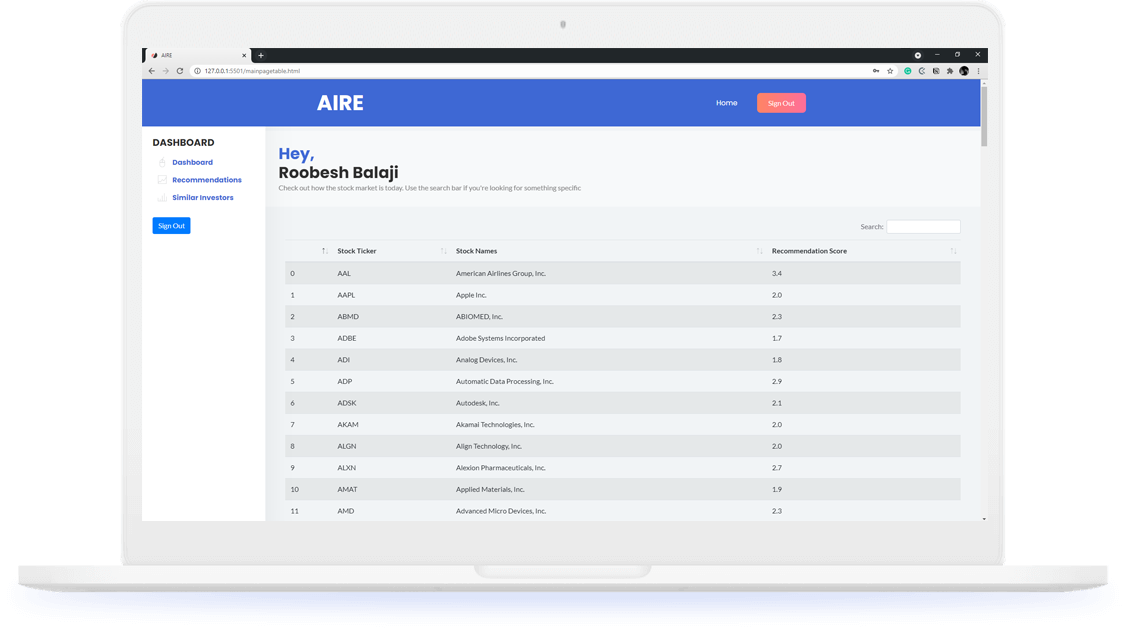
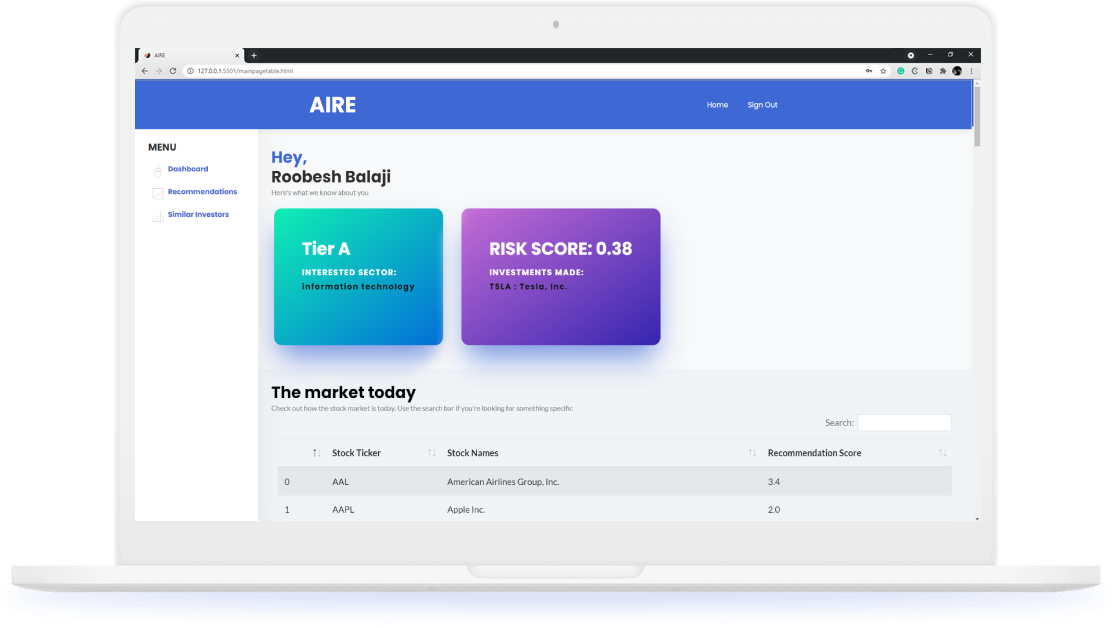
Mobile UI Bug fixes V2.2

diff --git a/templates/dashboard.html b/templates/dashboard.html
@@ -63,12 +63,12 @@ crossorigin="anonymous">
                                     <li class="nav-item active">
                                         <a class="page-scroll" href="dashboard.html">Home</a>
                                     </li>
+                                    <li class="nav-item active">
+                                        <a class="page-scroll" onclick="signOut()">Sign Out</a>
+                                    </li>
+
                                 </ul>
                             </div> <!-- navbar collapse -->
-                            
-                            <div class="navbar-btn d-none d-sm-inline-block">
-                                <a class="main-btn" data-scroll-nav="0" onclick="signOut()" rel="nofollow" style="color:white">Sign Out</a>
-                            </div>
                         </nav> <!-- navbar -->
                     </div>
                 </div> <!-- row -->

diff --git a/templates/recommendations.html b/templates/recommendations.html
@@ -70,12 +70,11 @@ crossorigin="anonymous">
                                     <li class="nav-item active">
                                         <a class="page-scroll" href="dashboard.html">Home</a>
                                     </li>
+                                    <li class="nav-item active">
+                                        <a class="page-scroll" onclick="signOut()">Sign Out</a>
+                                    </li>
                                 </ul>
                             </div> <!-- navbar collapse -->
-                            
-                            <div class="navbar-btn d-none d-sm-inline-block">
-                                <a class="main-btn" data-scroll-nav="0" onclick="signOut()" rel="nofollow" style="color:white">Sign Out</a>
-                            </div>
                         </nav> <!-- navbar -->
                     </div>
                 </div> <!-- row -->

diff --git a/templates/similar_users.html b/templates/similar_users.html
@@ -64,12 +64,11 @@ crossorigin="anonymous">
                                     <li class="nav-item active">
                                         <a class="page-scroll" href="dashboard.html">Home</a>
                                     </li>
+                                    <li class="nav-item active">
+                                        <a class="page-scroll" onclick="signOut()">Sign Out</a>
+                                    </li>
                                 </ul>
                             </div> <!-- navbar collapse -->
-                            
-                            <div class="navbar-btn d-none d-sm-inline-block">
-                                <a class="main-btn" data-scroll-nav="0" onclick="signOut()" rel="nofollow" style="color:white">Sign Out</a>
-                            </div>
                         </nav> <!-- navbar -->
                     </div>
                 </div> <!-- row -->

diff --git a/templates/index.html b/templates/index.html
@@ -83,12 +83,11 @@
                                     <li class="nav-item">
                                         <a class="page-scroll" href="#about">About</a>
                                     </li>
+                                    <li class="nav-item">
+                                        <a class="page-scroll" href="signin.html">Sign In</a>
+                                    </li>
                                 </ul>
                             </div> <!-- navbar collapse -->
-                            
-                            <div class="navbar-btn d-none d-sm-inline-block">
-                                <a class="main-btn" data-scroll-nav="0" href="signin.html" rel="nofollow">Sign In</a>
-                            </div>
                         </nav> <!-- navbar -->
                     </div>
                 </div> <!-- row -->
